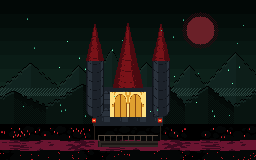
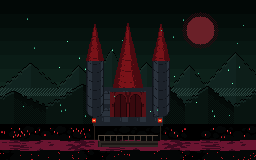
Nền Địa Phủ: cửa điện Diêm La đổi từ vàng sáng sang đỏ sẫm cho chìm vào nền
Tyler thấy cửa vàng quá lộ ở Tàng Kiếp Các và Thất Nhật Lục. Chỉ đổi dải màu cửa trong scripts/gen_diaphu.py rồi vẽ lại public/bg/dia-phu.png; phần còn lại của ảnh giữ nguyên từng điểm.

Claude-Session: https://claude.ai/code/session_01N7FhZFVFtNUHbZGe7TnFCF

Changed region(s): [[0.4062, 0.5625, 0.5938, 0.75]]

diff --git a/scripts/gen_diaphu.py b/scripts/gen_diaphu.py
@@ -28,8 +28,8 @@ def scene():
     G.mountains(img, len(G.SKY) - 1, 31, 96, 50, 0)
     G.SKY.append(('#10261e', '#16302a'))
     G.mountains(img, len(G.SKY) - 1, 37, 110, 30, 1)
-    # điện Diêm La: tường LPC tô đen, mái đỏ thẫm, cửa sổ đèn lồng vàng
-    hall = C.palace(['#06080a', '#10141a', '#1c222a', '#2a323c'], ['#2a0408', '#4a0a10', '#7a1218', '#a82020'], ['#1a0804', '#8a4a10', '#e0a030', '#ffe080'], scale=0.55)
+    # điện Diêm La: tường LPC tô đen, mái đỏ thẫm, cửa tối màu đỏ sẫm (30/10 Tyler: cửa vàng quá lộ)
+    hall = C.palace(['#06080a', '#10141a', '#1c222a', '#2a323c'], ['#2a0408', '#4a0a10', '#7a1218', '#a82020'], ['#080204', '#1c0508', '#38090e', '#561016'], scale=0.55)
     put(img, hall, 128 - hall.width // 2, GROUND + 2)
     # đất đá đen
     cob = C.gmap(C.COBBLE, ['#040606', '#0a100e', '#121c18', '#1c2a24'])
